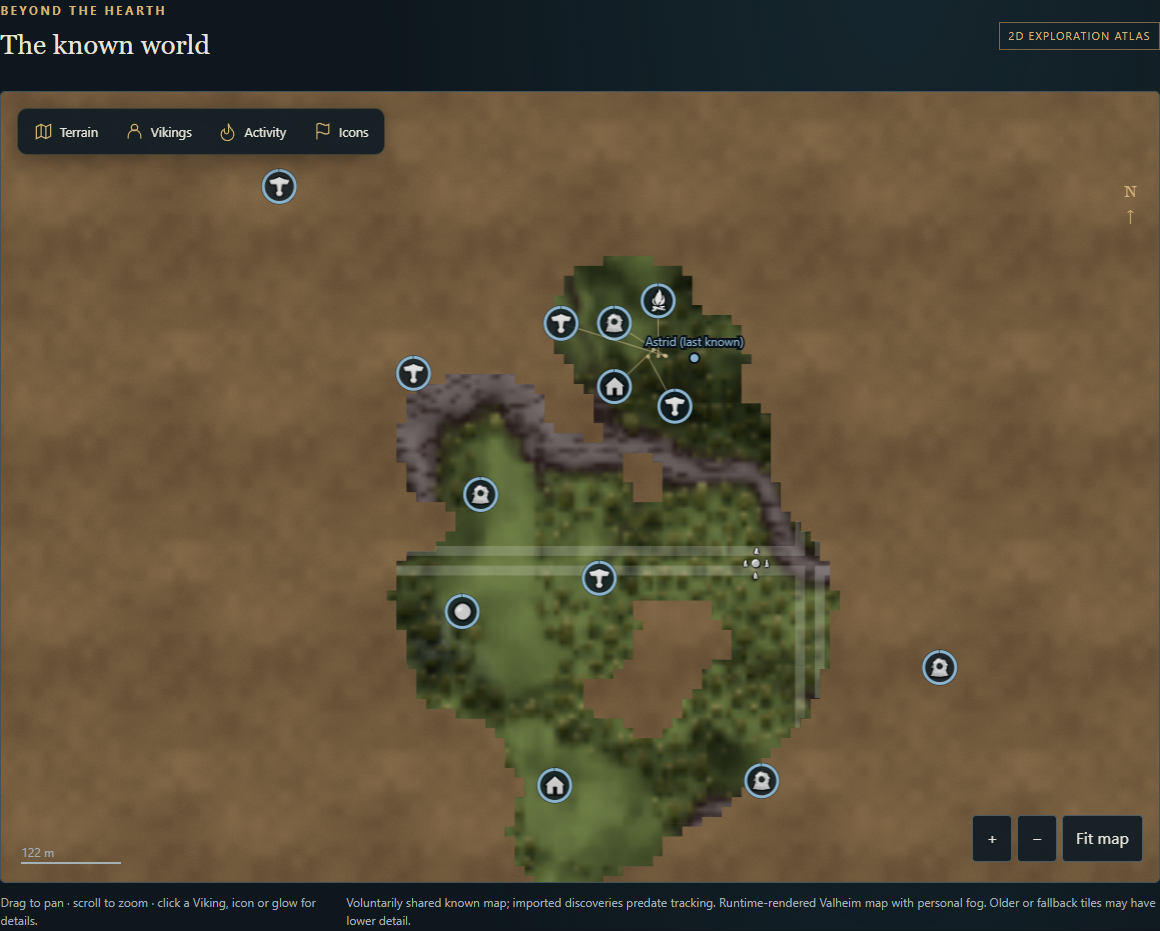
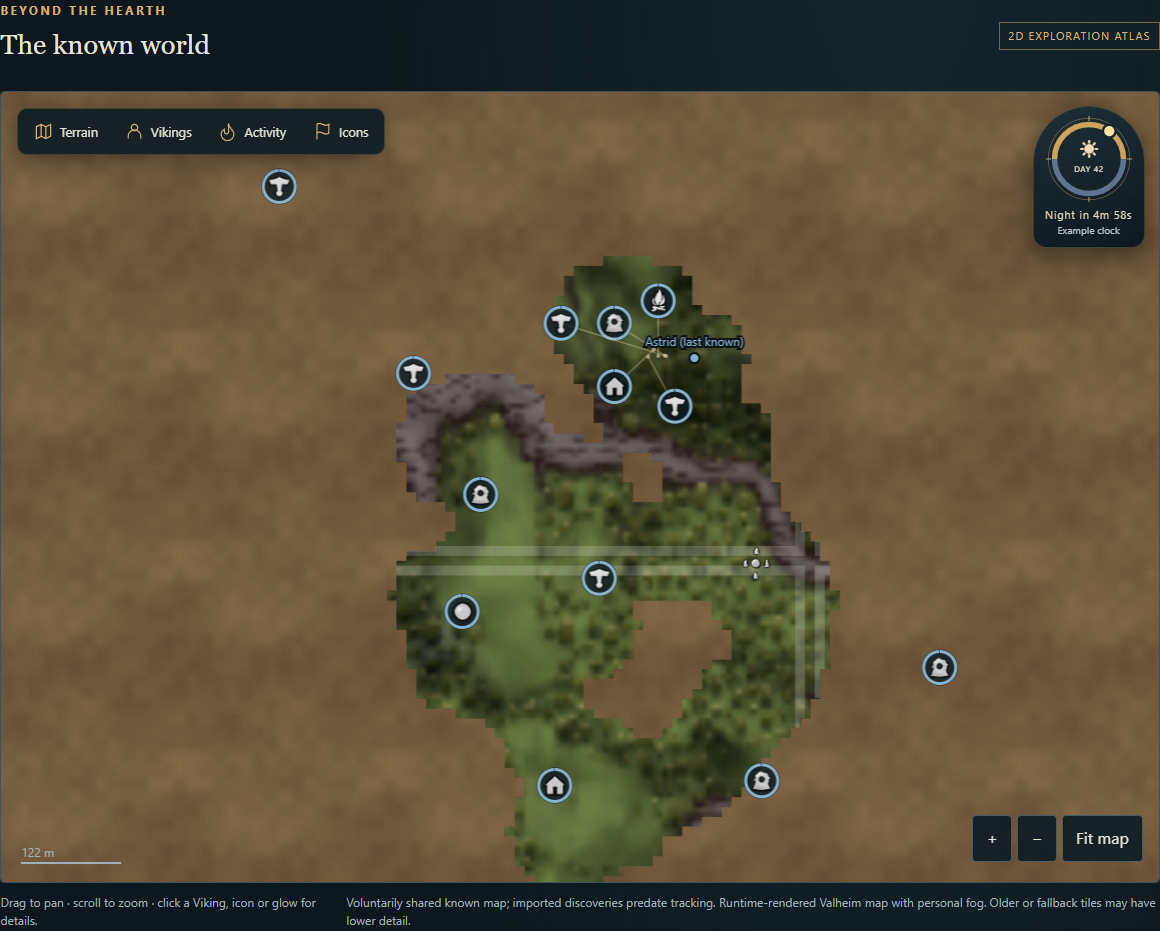
Show day-night dial in release atlas screenshot

Changed region(s): [[0.869, 0.0934, 0.9931, 0.2803]]

diff --git a/README.md b/README.md
@@ -15,13 +15,13 @@ Your adventures, remembered: a standalone Valheim mod with a server-hosted websi
 - **Sagas:** persistent personal and server stories with a separate recorded-facts ledger. The host must configure OpenRouter first; no template stories are generated.
 - **Make it yours:** boxed, full-screen or full-screen scrolling scenery. Your personal login can select backgrounds up to your recorded boss progression; everyone sees the saved selection. New browsers default to full-screen scroll.
 
-![World Atlas with colored personal icons, a fanned pin group and a last-known Viking marker](https://raw.githubusercontent.com/pendulumgames/ValheimSagas/main/docs/screenshots/atlas.png)
+![World Atlas with day/night dial, colored personal icons, a fanned pin group and a last-known Viking marker](https://raw.githubusercontent.com/pendulumgames/ValheimSagas/main/docs/screenshots/atlas.png)
 
 Statistics support all history, 30 minutes, 1/6/12 hours, 1/3/7 days and custom dates. Live presence and last-known equipment are independent of the selected time window. Drops, verified earned collections and unknown pickups remain distinct; repeat pickups and bonus loot rolls cannot create extra kills.
 
 ![Server rankings including optional Nemesis boss kills](https://raw.githubusercontent.com/pendulumgames/ValheimSagas/main/docs/screenshots/leaderboard.png)
 
-Screenshots show an isolated copy of recorded playtest data, with display names replaced for publication. The atlas shows saved playtest exploration, a last-known Viking marker, colored personal icons and a fanned group connected to its true locations. One Viking owns these pins, so they share that Viking's color. The Nemesis leaderboard is shown honestly with no recorded victories yet. These are website captures, not evidence that every multiplayer integration has been verified.
+Screenshots show an isolated copy of recorded playtest data, with display names replaced for publication. The atlas shows saved playtest exploration, a last-known Viking marker, colored personal icons and a fanned group connected to its true locations. One Viking owns these pins, so they share that Viking's color. The day/night dial uses a labeled example day/countdown because the offline snapshot has no live world clock. The Nemesis leaderboard is shown honestly with no recorded victories yet. These are website captures, not evidence that every multiplayer integration has been verified.
 
 ## Install and open
 

diff --git a/docs/MOD-README.md b/docs/MOD-README.md
@@ -15,13 +15,13 @@ Your adventures, remembered: a standalone Valheim mod with a server-hosted websi
 - **Sagas:** persistent personal and server stories with a separate recorded-facts ledger. The host must configure OpenRouter first; no template stories are generated.
 - **Make it yours:** boxed, full-screen or full-screen scrolling scenery. Your personal login can select backgrounds up to your recorded boss progression; everyone sees the saved selection. New browsers default to full-screen scroll.
 
-![World Atlas with colored personal icons, a fanned pin group and a last-known Viking marker](https://raw.githubusercontent.com/pendulumgames/ValheimSagas/main/docs/screenshots/atlas.png)
+![World Atlas with day/night dial, colored personal icons, a fanned pin group and a last-known Viking marker](https://raw.githubusercontent.com/pendulumgames/ValheimSagas/main/docs/screenshots/atlas.png)
 
 Statistics support all history, 30 minutes, 1/6/12 hours, 1/3/7 days and custom dates. Live presence and last-known equipment are independent of the selected time window. Drops, verified earned collections and unknown pickups remain distinct; repeat pickups and bonus loot rolls cannot create extra kills.
 
 ![Server rankings including optional Nemesis boss kills](https://raw.githubusercontent.com/pendulumgames/ValheimSagas/main/docs/screenshots/leaderboard.png)
 
-Screenshots show an isolated copy of recorded playtest data, with display names replaced for publication. The atlas shows saved playtest exploration, a last-known Viking marker, colored personal icons and a fanned group connected to its true locations. One Viking owns these pins, so they share that Viking's color. The Nemesis leaderboard is shown honestly with no recorded victories yet. These are website captures, not evidence that every multiplayer integration has been verified.
+Screenshots show an isolated copy of recorded playtest data, with display names replaced for publication. The atlas shows saved playtest exploration, a last-known Viking marker, colored personal icons and a fanned group connected to its true locations. One Viking owns these pins, so they share that Viking's color. The day/night dial uses a labeled example day/countdown because the offline snapshot has no live world clock. The Nemesis leaderboard is shown honestly with no recorded victories yet. These are website captures, not evidence that every multiplayer integration has been verified.
 
 ## Install and open
 

diff --git a/docs/VERIFICATION.md b/docs/VERIFICATION.md
@@ -192,3 +192,9 @@ Updated atlas screenshot uses an isolated copy of the closed Test profile's save
 ### 0.3.26 ? landscape zoom limit
 
 Plugin build: zero errors, two existing reference warnings. Focused browser suites passed: clusters, heatmap (16), map details (19), Viking map (19) and atlas layout. New assertions verify the 20m scale bar via cluster double-click, normal/keyboard zoom and direct draw constraints; 40m opening/50m closing with a stable intermediate band; nearly coincident pins remain selectable. Existing fade, gather, collision, reduced-motion and mobile checks remain passing. No core/gameplay behavior changed and the full backend suite was not rerun. In-game playtest remains pending.
+
+### 0.3.26 publication artwork refresh
+
+Atlas screenshot recaptured and visually reviewed with the production day/night dial and countdown. Terrain/pins/position come from the same isolated playtest copy; the clock alone uses a clearly labeled example because live clock state is not persisted. Both READMEs disclose this. No runtime code changed.
+
+Packaging requirements rechecked against https://hexium.gg/packaging and https://wiki.thunderstore.io/mods/creating-a-package: both accept this ZIP layout; Hexium accepts Thunderstore-compatible packages and strips the BepInExPack_Valheim dependency itself. Upload as a client-and-server mod. The release remains a preview: a fresh two-client dedicated-server transport/performance test and Linux-host acceptance are still outstanding; real credentialed OpenRouter execution is not part of automated verification.

diff --git a/CHANGELOG.md b/CHANGELOG.md
@@ -2,6 +2,8 @@
 
 ## 0.3.26
 
+- Refresh the README atlas image with the day/night dial and real-time countdown visible (labeled example clock on recorded offline playtest data).
+
 - Cap atlas zoom at 20 m on the 100-pixel scale bar across wheel, buttons, keyboard and cluster zoom.
 - Spread nearby pins around 40 m and gather them at 50 m, with separate thresholds to avoid flickering. Manual cluster opening, exact-position lines and close-pin selection remain available.
 
